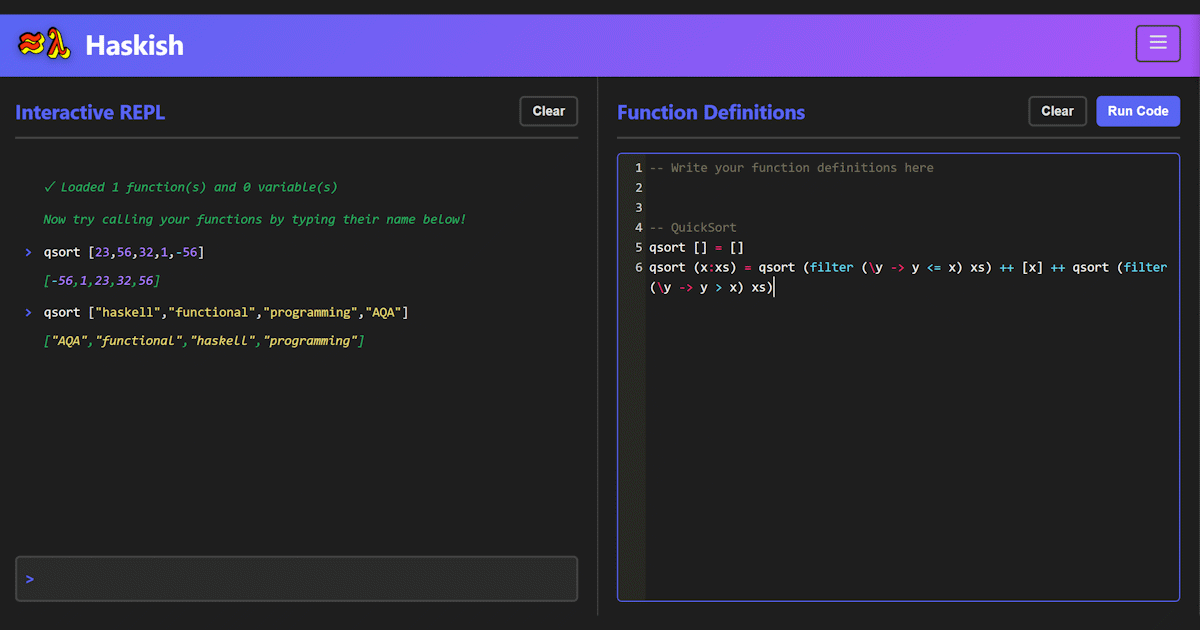
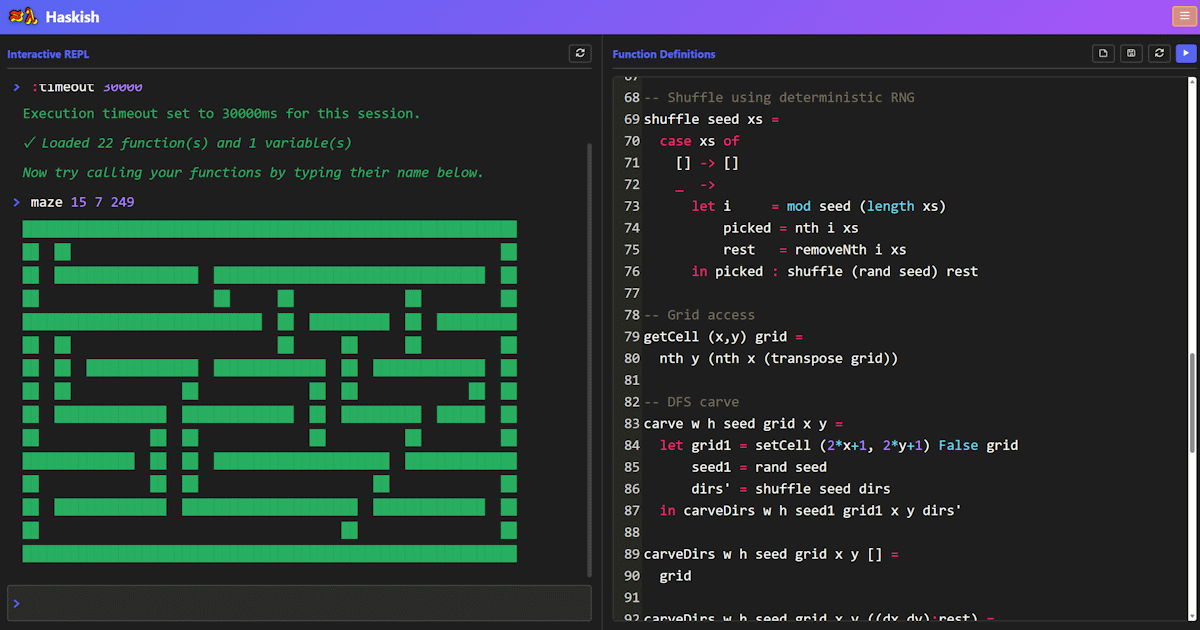
Update SEO descriptions and include current workspace changes

diff --git a/index.html b/index.html
@@ -7,21 +7,21 @@
     
     <meta charset="UTF-8">
     <meta name="viewport" content="width=device-width, initial-scale=1.0, maximum-scale=1.0, user-scalable=no, viewport-fit=cover">
-    <meta name="description" content="A free Haskell&#8209;style programming playground and browser&#8209;based REPL for students, teachers and beginners. Practice recursion, pattern matching and higher&#8209;order functions online. Ideal for A&#8209;Level Computer Science (AQA 4.12). Works offline as a PWA.">
+    <meta name="description" content="A free Haskell-style programming playground and browser-based REPL with guided lessons, exercises and challenges. Practice recursion, pattern matching and higher-order functions online. Ideal for A-Level Computer Science (AQA 4.12). Works offline as a PWA.">
     <meta name="keywords" content="Haskell, functional programming, A Level Computer Science, AQA, recursion, pattern matching, higher-order functions, map, filter, fold, list comprehensions, lambda functions, tuples, currying, lazy evaluation, free online programming, REPL, interactive coding, education, teachers, students, no installation, PWA, offline, lessons, tutorials">
     
     <!-- Open Graph / Facebook -->
     <meta property="og:type" content="website">
     <meta property="og:site_name" content="Haskish">
     <meta property="og:title" content="Haskish | Haskell&#8209;Style Programming Playground &amp; REPL in Your Browser">
-    <meta property="og:description" content="A free Haskell&#8209;style programming playground and browser&#8209;based REPL for students, teachers and beginners. Practice recursion, pattern matching and higher&#8209;order functions online. Ideal for A&#8209;Level Computer Science (AQA 4.12). Works offline as a PWA.">
+    <meta property="og:description" content="A free Haskell-style programming playground and browser-based REPL with guided lessons, exercises and challenges. Practice recursion, pattern matching and higher-order functions online. Ideal for A-Level Computer Science (AQA 4.12). Works offline as a PWA.">
     <meta property="og:image" content="https://www.korovatron.co.uk/haskish/images/preview-v3.png">
     <meta property="og:url" content="https://www.korovatron.co.uk/haskish">
     
     <!-- Twitter -->
     <meta name="twitter:card" content="summary_large_image">
     <meta name="twitter:title" content="Haskish | Haskell&#8209;Style Programming Playground &amp; REPL in Your Browser">
-    <meta name="twitter:description" content="A free Haskell&#8209;style programming playground and browser&#8209;based REPL for students, teachers and beginners. Practice recursion, pattern matching and higher&#8209;order functions online. Ideal for A&#8209;Level Computer Science (AQA 4.12). Works offline as a PWA.">
+    <meta name="twitter:description" content="A free Haskell-style programming playground and browser-based REPL with guided lessons, exercises and challenges. Practice recursion, pattern matching and higher-order functions online. Ideal for A-Level Computer Science (AQA 4.12). Works offline as a PWA.">
     <meta name="twitter:image" content="https://www.korovatron.co.uk/haskish/images/preview-v3.png">
     
     <!-- PWA -->

diff --git a/app.js b/app.js
@@ -1,7 +1,7 @@
 // Haskish App - UI Controller
 
 // Version number
-const HASKISH_VERSION = '1.2.9';
+const HASKISH_VERSION = '1.2.10';
 
 const interpreter = new HaskishInterpreter();
 

diff --git a/sw.js b/sw.js
@@ -1,4 +1,4 @@
-const CACHE_NAME = 'haskish-v1.2.9';
+const CACHE_NAME = 'haskish-v1.2.10';
 const urlsToCache = [
   './',
   './index.html',